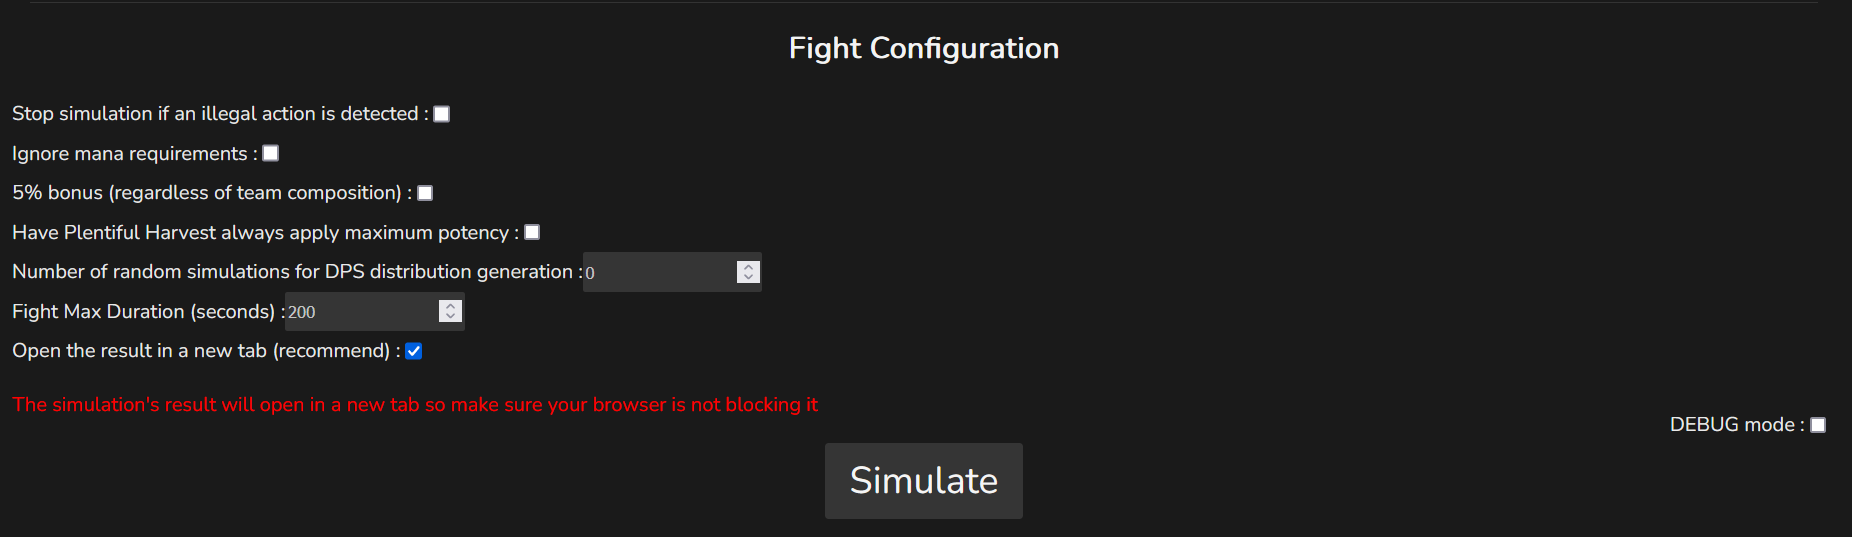
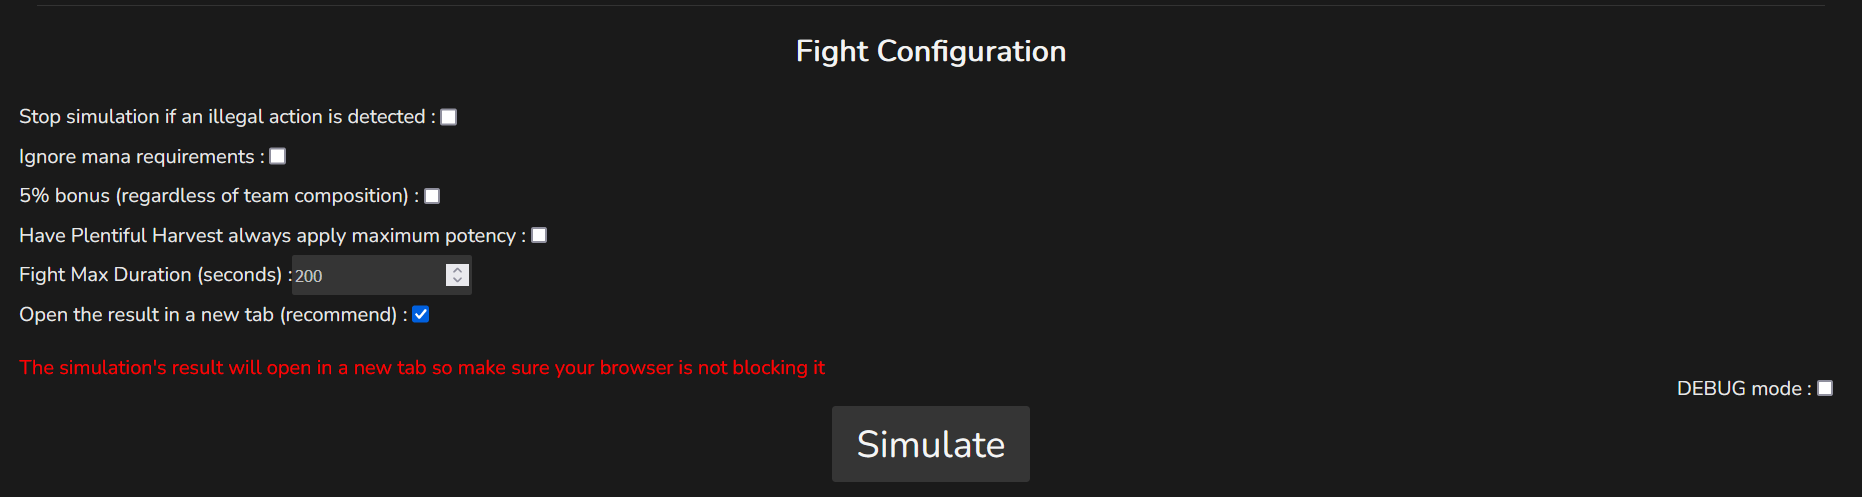
Added limitations, removed Dist graph

diff --git a/simulate/static/simulate/script.js b/simulate/static/simulate/script.js
@@ -224,9 +224,12 @@ This function returns a function that adds an action to a player's action list. 
                              // If IsAdded is true, then it will be created, if it is false the value in ActionIden will 
                              // be used.
     var Identification = "";
-                                // If the action is added (and not repopulated), we create an entirely new 
-                                // entry for it in the actionlist of the player.
+                             // If the action is added (and not repopulated), we create an entirely new 
+                             // entry for it in the actionlist of the player.
     if (IsAdded) {
+
+                             // First check if player has reached action limit
+        if (PlayerConfigDict[currentEditPlayerID]["ActionList"].length>=120){alert("Action limit reached. Cannot add more than 120 actions per player.");return;}
                                 // Giving new ActionIdentification since action we are adding
         Identification = String(currentEditPlayerID)+String(PlayerConfigDict[currentEditPlayerID]["NextActionID"]);
         //PlayerConfigDict[currentEditPlayerID]["NextActionID"]++;
@@ -376,13 +379,7 @@ function Submit(){
                                  // We check if there is at least one player. If not we exit and alert the user.
     if (! AtLeastOnePlayer){alert("The simulation needs at least one player.");return;}
     var FightDuration = document.getElementById("FightDuration").value;
-    if (FightDuration <= 0 || FightDuration > 300){alert("The fight's duration must be between 0 and 300 secconds.");return;}
-    var n_player = Object.keys(PlayerConfigDict).length;
-    if (document.getElementById("NumberRandomSimulation").value * n_player > 50000)
-        {
-        alert("The number of random simulation to generate DPS distribution is too high for the number of player(s). It must be lower than or equal to "+String(50000/n_player)+" (50000 iterations spread through all player(s).)");
-        return;
-        }
+    if (FightDuration <= 0 || FightDuration > 150){alert("The fight's duration must be between 0 and 150 secconds.");return;}
 
                                  // We save the currently edited player's input.
     SavePlayerConfiguration(currentEditPlayerID);
@@ -448,8 +445,7 @@ function Submit(){
         },
         "mode" : DebugMode,
         "TeamCompBonus" : TeamCompBonus,
-        "MaxPotencyPlentifulHarvest" : MaxPotencyPlentifulHarvest,
-        "NumberRandomSimulation" : document.getElementById("NumberRandomSimulation").value
+        "MaxPotencyPlentifulHarvest" : MaxPotencyPlentifulHarvest
     };
                                  // POST request Logic
     xhr = new XMLHttpRequest();

diff --git a/simulate/templates/simulate/help.html b/simulate/templates/simulate/help.html
@@ -97,11 +97,9 @@
     for the player cannot be replicated in game. The "Ignore Mana Requirement" option will allow the simulation to ignore MP requirements when using <br>
     an action, but you will not be warned if the simulation detects at any point that there was not enough MP for an action. The "5% bonus" option will <br>
     allow the simulation to give the 5% main stat bonus regardless of the team composition. The "Have Plentiful Harvest always apply maximum potency" option <br>
-    will make every casting of plentiful harvest have maximum potency. The "Number of random simulations" is the number of time the <br>
-    simulator will simulate a random simulation in order to generate the DPS distribution. There is a maximum of 50'000 iterations spread throughout all of the players.<br>
-    In other words, if the fight has 1 player, it can do 50'000 random simulation. If it has 2 players, it can do 25'000 iterations, if it has 4 players it can do 12'500 iterations, etc. <br>
-    The "Fight Max Duration" option is the maximum duration in seconds the fight will last for. Note that if every player has no more actions to do, the simulation will stop before the max duration is <br>
-    reached. The "Open result in a new tab" option will display the result page in a new tab. Checking this box is recommended, as the inputs will not be saved if the user leaves and returns to the <br>
+    will make every casting of plentiful harvest have maximum potency. The "Fight Max Duration" option is the maximum duration in seconds the fight will last for. 
+    Note that if every player has no more actions to do, the simulation will stop before the max duration is reached. The "Open result in a new tab" option will<br>
+    display the result page in a new tab. Checking this box is recommended, as the inputs will not be saved if the user leaves and returns to the <br>
     page. The "DEBUG mode" option will display all the DEBUG logs from the simulation. This is not very useful to the common user and should stay unchecked.<br>
     The "Simulate" button will launch a simulation with the current configurations you have entered. You will then be taken to the result page or to an error page.
 </p>
@@ -153,16 +151,6 @@
     This section simply displays the resulting DPS graph of the simulation. You can see the DPS of every player against the duration of the simulation.
 </p>
 </div>
-
-<hr style="width:50%;">
-<div>
-<h3>DPS Distribution graph</h3>
-<img class="helpimg" style ="width: 800px;" src="{% static 'simulate/help/dist_graph.png' %}">
-<p>
-    This section displays the resulting DPS distribution of the simulation. The orange line corresponds to the expected DPS.
-</p>
-</div>
-
 </div>
 </body>
 </html>

diff --git a/simulate/templates/simulate/index.html b/simulate/templates/simulate/index.html
@@ -46,8 +46,6 @@
                 The simulator is also able to detect if a chosen action is illegal, in which case the simulation will stop and notify the user; you can disable this option in the 
                 simulation page. If you have any questions, feel free to join the Discord server dedicated to the project by clicking the Discord logo above or browse the help page 
                 by clicking on the question mark icon above.
-                
-                </section>
             </p>
             <a href="/simulate/SimulationInput/">
                 <button class="basicButton bigbutton">
@@ -55,7 +53,10 @@
                 </button>
             </a>
             <p>
-                Note that the simulator is still in active development and bugs may be encountered (reporting a bug if any is found is higly appreciated). The results may not perfectly replicate 
+                Note that this online simulator has some imposed restrictions in order to limit computation time. These limitations include :<span style="color: red;"> maximum of 8 players per simulations, 
+                maximum length of simulation is 150 seconds, maximum number of actions per player is 120 and the simulator will not compute the DPS distribution.</span> If you need more than
+                what the online simulator can offer, download the python library on your own machine and no such restrictions will be present.
+                Furthermore, the simulator is still in active development and bugs may be encountered (reporting a bug if any is found is higly appreciated). The results may not perfectly replicate 
                 in-game performance  (for instance, the program does not account for lag and assumes an average crit rate),but they will give a very good idea of how in game damage
                 would look like given a set of actions. It also (for now) cannot account for more than 1 target but some work is being done in that direction.
             </p>

diff --git a/simulate/templates/simulate/input.html b/simulate/templates/simulate/input.html
@@ -147,15 +147,10 @@
             <input type="checkbox" id="MaxPotencyPlentifulHarvest" onchange="UpdateMaxPotencyPlentifulHarvest()">
         </div>
         <div class="container" style="margin: 0px;"
-        title="Number of random simulation to generate DPS distribution ((50'000 max between all players):)">
-            <p>Number of random simulations for DPS distribution generation : </p>
-            <input type="number" id="NumberRandomSimulation" value="0">
-        </div>
-        <div class="container" style="margin: 0px;"
         title="The maximum fight duration of the simulation in seconds. The simulation will stop
         when the timer reaches that value and will return the current results. Must be a positive value and be lower than 300.">
             <p>Fight Max Duration (seconds) : </p>
-            <input id="FightDuration" type="number" value="200">
+            <input id="FightDuration" type="number" value="60">
         </div>
         <div class="container" style="margin: 0px;"
         title="Open the result in a new tab.">

diff --git a/simulate/views.py b/simulate/views.py
@@ -73,17 +73,14 @@ def SimulationResult(request):
         TeamBonusComp = data["TeamCompBonus"]
                                 # We check if MaxPotencyPlentifulHarvest is true or not
         MaxPotencyPlentifulHarvest = data["MaxPotencyPlentifulHarvest"]
-                                # We take the value of n
-        n = int(data["NumberRandomSimulation"])
+                                # Make sure values are within expected range
         l = len(data["data"]["PlayerList"])
-        if (n * l > 50000 or
-           (float(data["data"]["fightInfo"]["fightDuration"]) > 300 or float(data["data"]["fightInfo"]["fightDuration"]) < 0 ) or
+        if ((float(data["data"]["fightInfo"]["fightDuration"]) > 150 or float(data["data"]["fightInfo"]["fightDuration"]) < 0 ) or
             l>8):
-            Msg = ("Invalid value for 'n', 'NumberOfPlayer' or 'fightDuration'. If this error persists please let me know through discord.")
+            Msg = ("Invalid value for 'NumberOfPlayer' or 'fightDuration'. If this error persists please let me know through discord.")
             request.session["ErrorMessage"] = Msg
             return redirect('Error') 
 
-        del data["NumberRandomSimulation"]
         del data["mode"]  
         del data["TeamCompBonus"]  
         del data["MaxPotencyPlentifulHarvest"]
@@ -94,6 +91,12 @@ def SimulationResult(request):
                                 # fail the validation.
         data["data"]["fightInfo"]["fightDuration"] = float(data["data"]["fightInfo"]["fightDuration"])
         for player in data["data"]["PlayerList"]:
+                                # Check length of action list
+            if len(player["actionList"])>120:
+                Msg = ("Invalid number of actions for at least one player. If this issues persists contact me on discord.")
+                request.session["ErrorMessage"] = Msg
+                return redirect('Error')
+
             player["playerID"] = int(player["playerID"])
             for key in player["stat"]:
                 player["stat"][key] = int(player["stat"][key])
@@ -142,7 +145,7 @@ def SimulationResult(request):
                                     # result_str is the result in text
                                     # fig is the graph of DPS
                                     # fig2 is the graph of DPS distribution
-        result_str, fig, fig2 = Event.SimulateFight(0.01,data["data"]["fightInfo"]["fightDuration"], vocal=False, PPSGraph=False, MaxTeamBonus=TeamBonusComp, MaxPotencyPlentifulHarvest=MaxPotencyPlentifulHarvest, n = n)
+        result_str, fig, fig2 = Event.SimulateFight(0.01,data["data"]["fightInfo"]["fightDuration"], vocal=False, PPSGraph=False, MaxTeamBonus=TeamBonusComp, MaxPotencyPlentifulHarvest=MaxPotencyPlentifulHarvest)
         if mode: 
                                 # Reverting changes
             mode = False
@@ -160,18 +163,11 @@ def SimulationResult(request):
         buf.seek(0)
         string = base64.b64encode(buf.read())
         uri = urllib.parse.quote(string)
-                                # DPS Distribution
-        if n >= 1:
-            buf2 = io.BytesIO()
-            fig2.savefig(buf2, format='png', dpi=200)
-            buf2.seek(0)
-            string2 = base64.b64encode(buf2.read())
-            uri2 = urllib.parse.quote(string2)
                                 # We will take the logs if any and check what the ReturnCode value is.
         ReturnCode = log_stream.ReturnCode
         log_str = log_stream.to_str()
 
-        return render(request, 'simulate/SimulatingResult.html', {"result_str" : result_arr, "graph" : uri, "has_dist" : n >= 1,"graph_dist" : uri2 if n>=1 else None, "WARNING" : ReturnCode == 1, "CRITICAL" : ReturnCode == 2, "log_str" : log_str})
+        return render(request, 'simulate/SimulatingResult.html', {"result_str" : result_arr, "graph" : uri,"WARNING" : ReturnCode == 1, "CRITICAL" : ReturnCode == 2, "log_str" : log_str})
     except InvalidTarget as Error:
         Msg = ("An action had an invalid target and the simulation was not able to continue.\n" +
         " Error message : " + str(Error))

diff --git a/mysite/settings.py b/mysite/settings.py
@@ -24,7 +24,7 @@ SECRET_KEY = 'django-insecure-nni481n*hf74j*+ocf+gk%(*o46i1ss)kaaw9#r$l*9!!@9kd&
 # SECURITY WARNING: don't run with debug turned on in production!
 DEBUG = False
 
-ALLOWED_HOSTS = ['ffxivdpscalc.azurewebsites.net','127.0.0.1']
+ALLOWED_HOSTS = ['ffxivdpscalc.azurewebsites.net']
 
 import environ# Initialise environment variables
 env = environ.Env()
